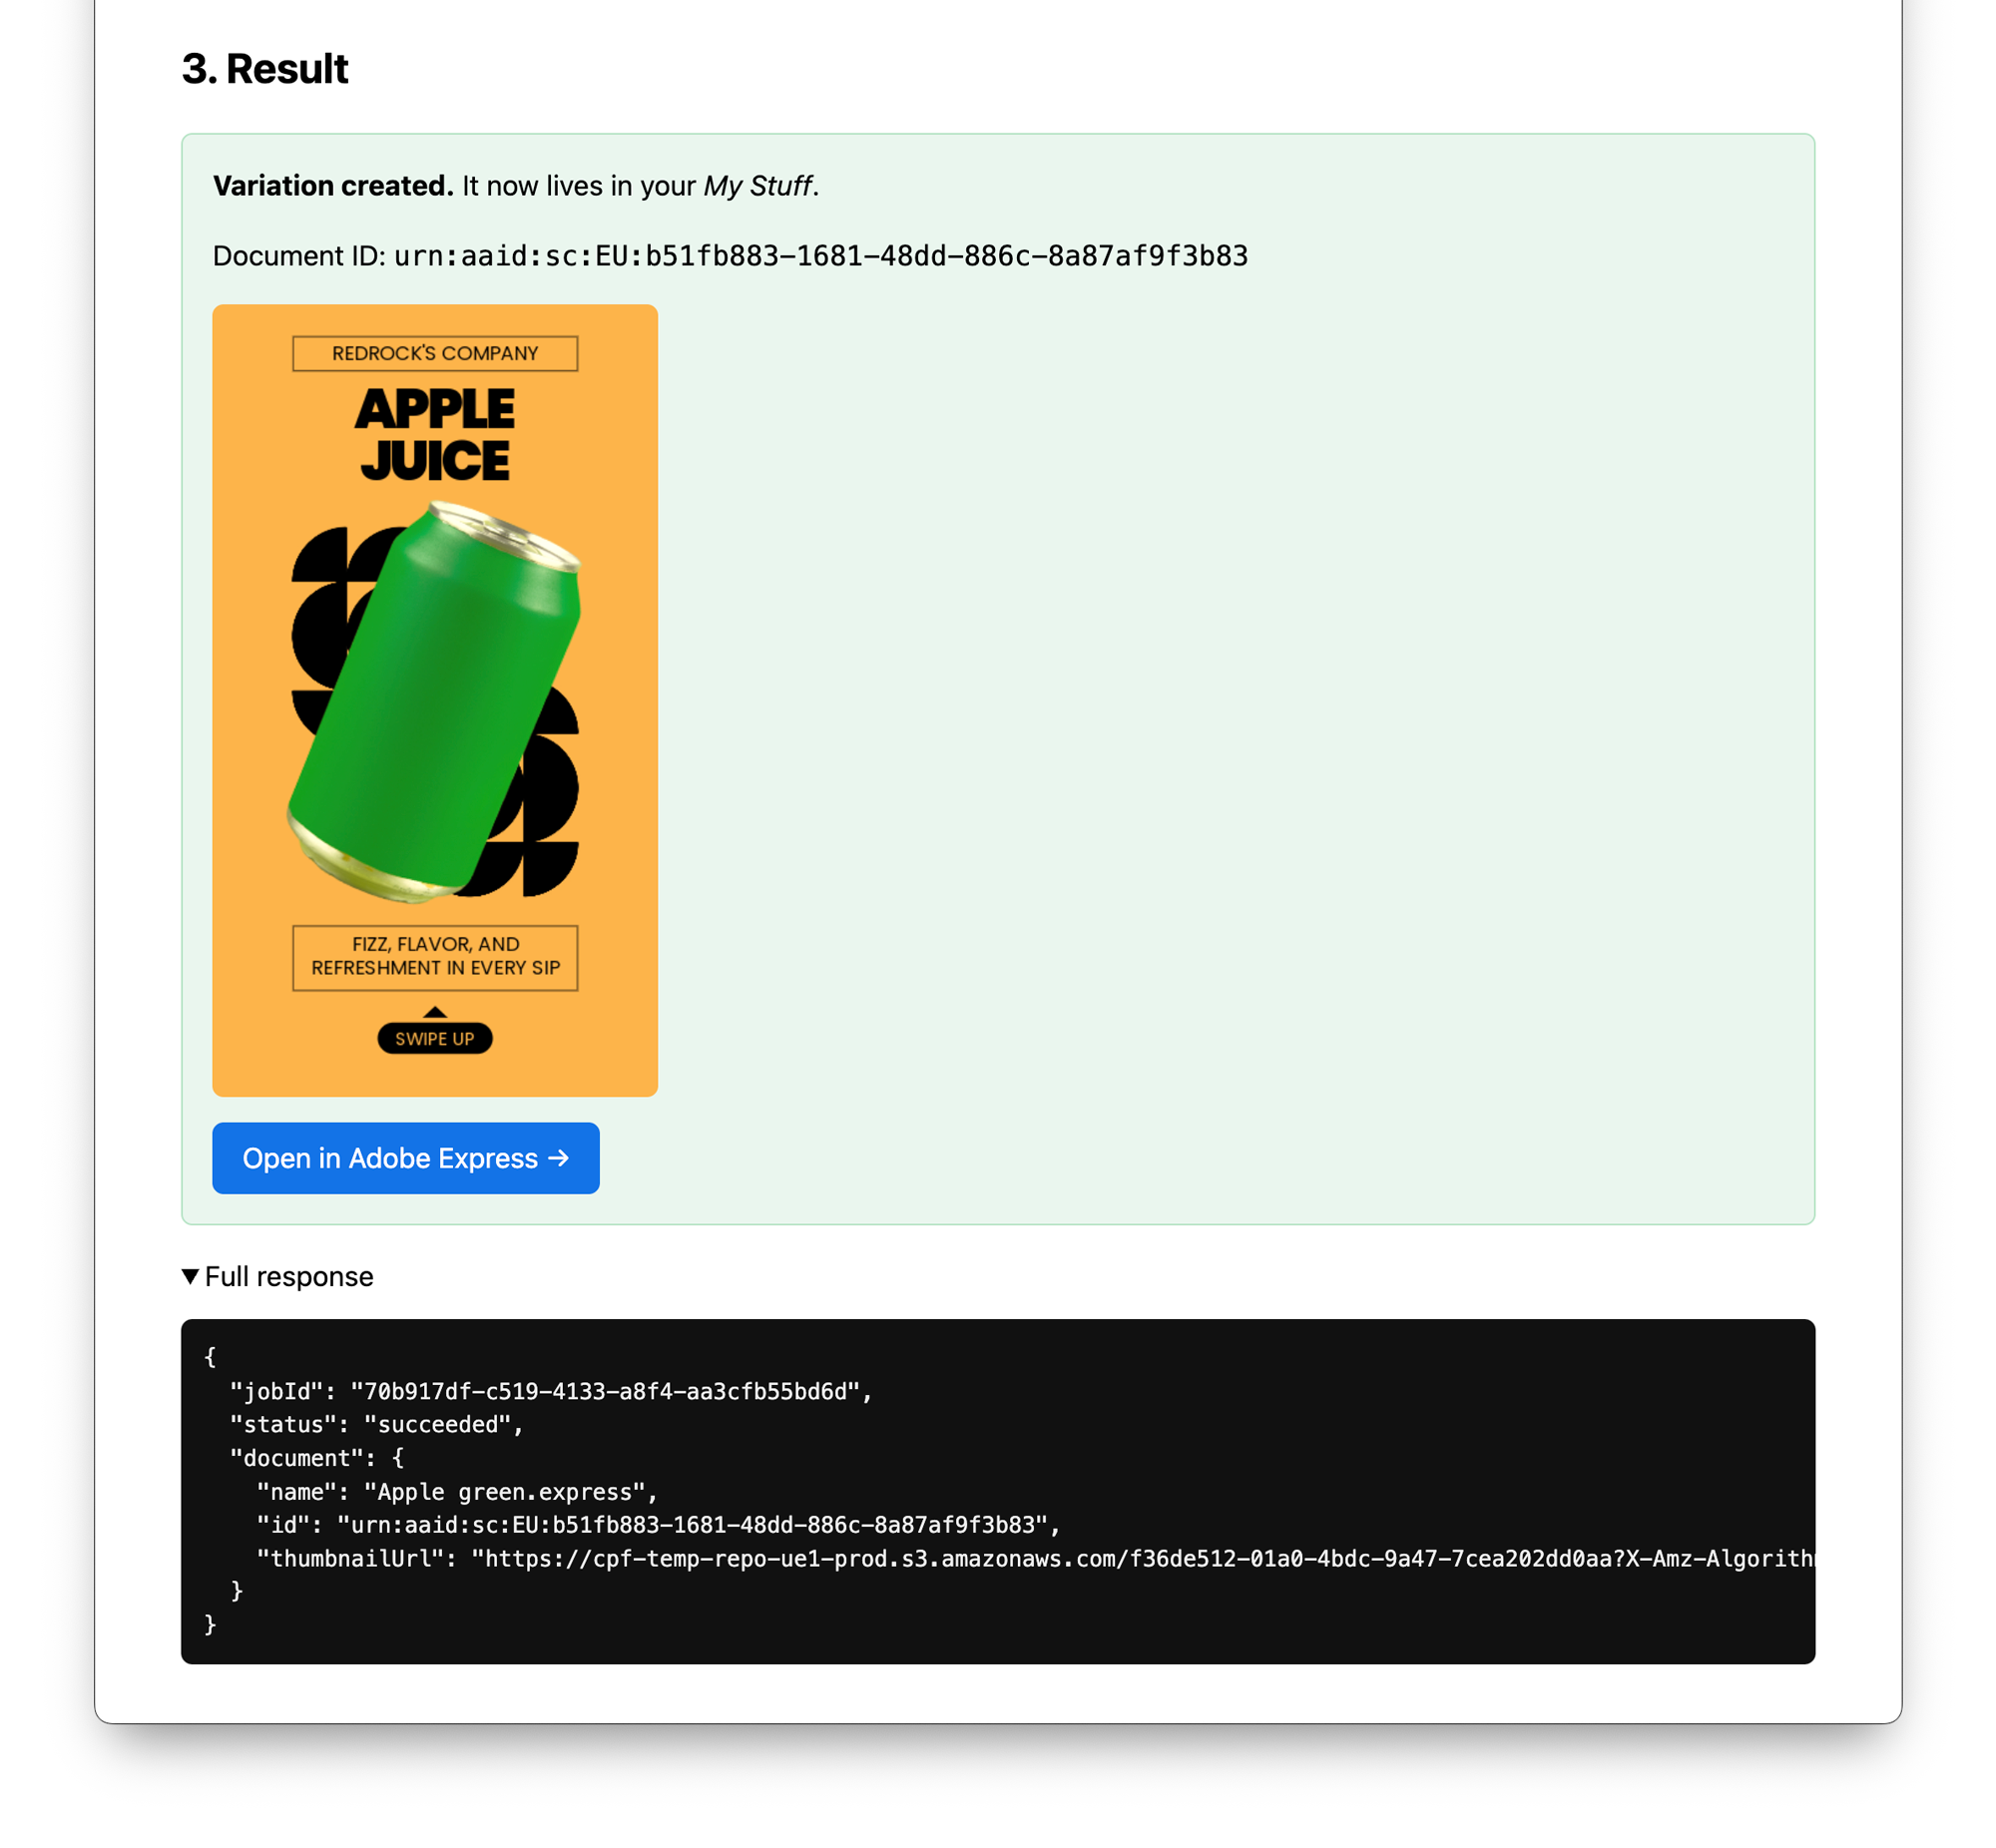
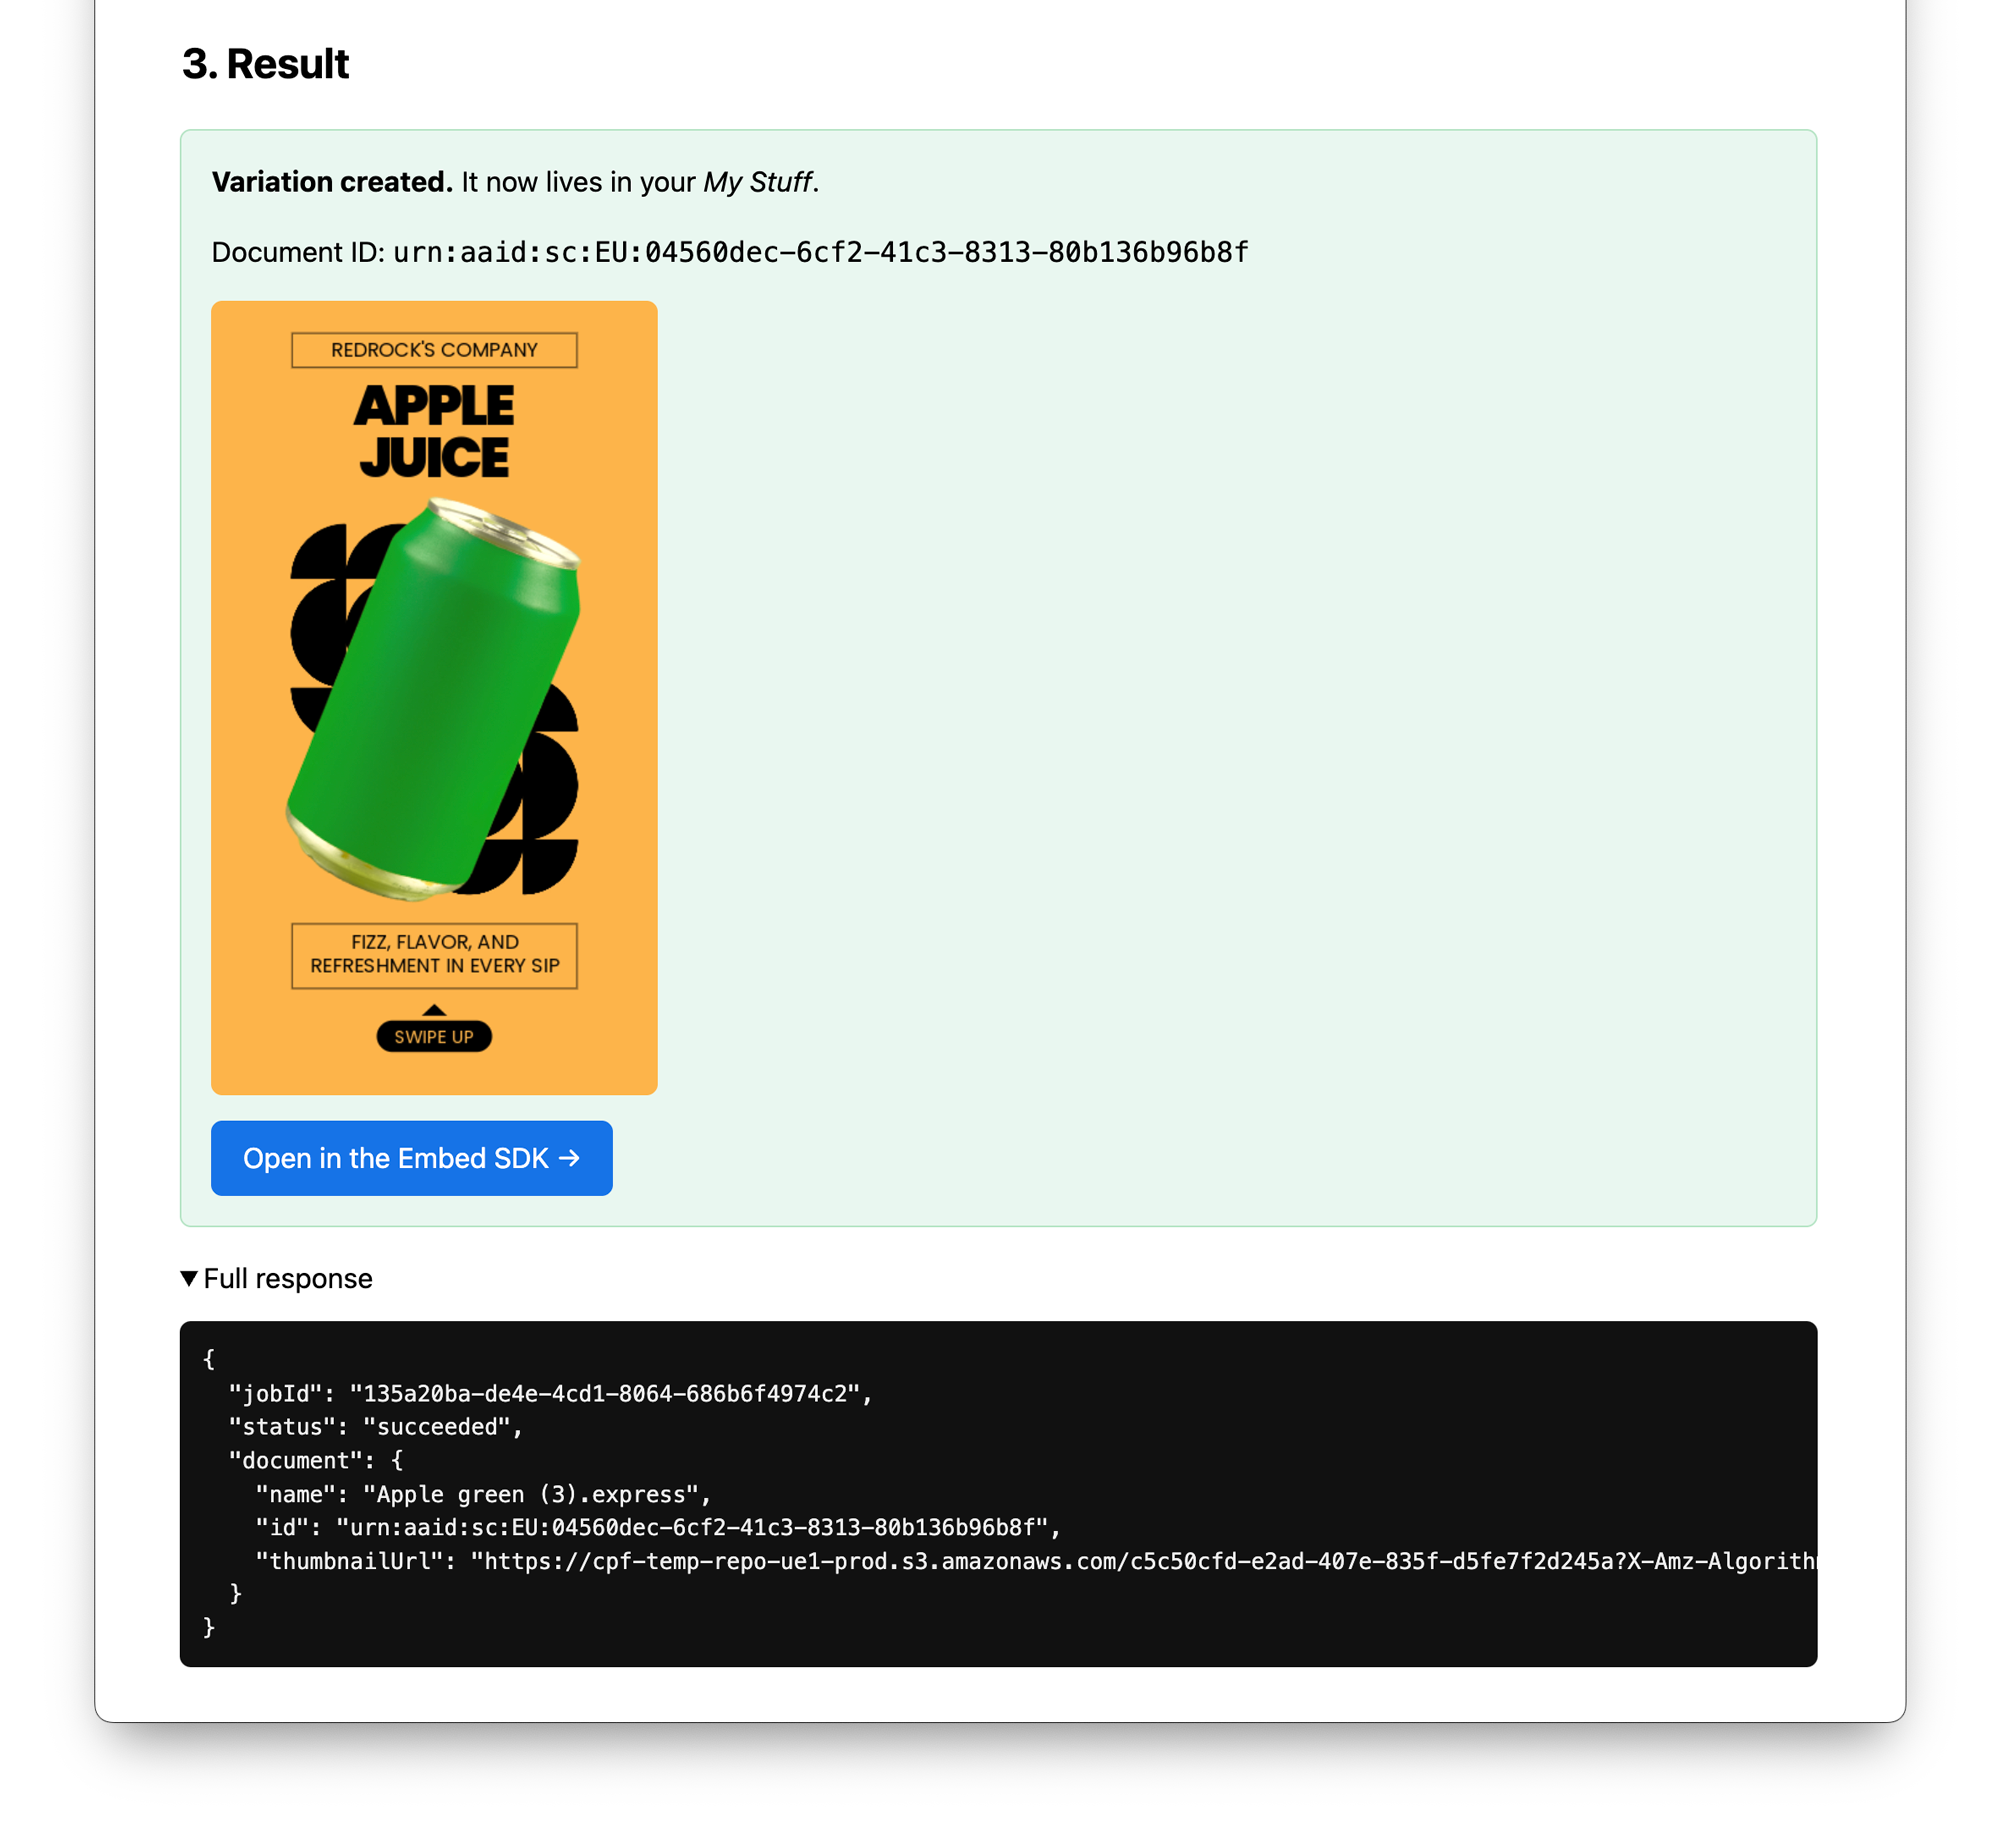
Implement the Embed SDK instead of Express

diff --git a/src/pages/config.md b/src/pages/config.md
@@ -2,49 +2,48 @@
   - /firefly-services/docs/express-api/
 
 - pages:
-    - All Firefly Services
-        - [Firefly Services Home](https://developer.adobe.com/firefly-services/docs/guides/?aio_internal) Introduction and general information about all Firefly services.
-        - [Firefly API](https://developer.adobe.com/firefly-services/docs/firefly-api/?aio_internal) Docs and references for Firefly API.
-        - [Photoshop API](https://developer.adobe.com/firefly-services/docs/photoshop/?aio_internal) Docs and references for Photoshop API.
-        - [Lightroom API](https://developer.adobe.com/firefly-services/docs/lightroom/?aio_internal) Docs and references for Lightroom API.
-        - [Audio/Video API](https://developer.adobe.com/audio-video-firefly-services/?aio_internal) Docs and references for Audio/Video API.
-        - [InDesign API](https://developer.adobe.com/firefly-services/docs/indesign-apis/?aio_internal) Docs and references for InDesign API.
-        - [Substance 3D API](https://developer.adobe.com/firefly-services/docs/s3dapi/?aio_internal) Unlock generative AI for rendering and object composites.
-        - [Illustrator API](https://developer.adobe.com/firefly-services/docs/illustrator/?aio_internal) Docs and references for Illustrator API.
-        - [Creative Production API](https://developer.adobe.com/firefly-services/docs/workflow-builder-api/?aio_internal) Docs and references for Firefly Creative Production API.
-        - [Express API](https://developer.adobe.com/firefly-services/docs/express-api/?aio_internal) Docs and references for Express API.
-        - [Content Tagging API](https://experienceleague.adobe.com/docs/experience-platform/intelligent-services/content-commerce-ai/overview.html) Docs and references for Content Tagging services.
-    - [About Express API](/index.md)
-    - [Getting Started](/getting-started/index.md)
-    - [Guides](guides/index.md)
-    - [API Reference](api/index.md)
+  - All Firefly Services
+    - [Firefly Services Home](https://developer.adobe.com/firefly-services/docs/guides/?aio_internal) Introduction and general information about all Firefly services.
+    - [Firefly API](https://developer.adobe.com/firefly-services/docs/firefly-api/?aio_internal) Docs and references for Firefly API.
+    - [Photoshop API](https://developer.adobe.com/firefly-services/docs/photoshop/?aio_internal) Docs and references for Photoshop API.
+    - [Lightroom API](https://developer.adobe.com/firefly-services/docs/lightroom/?aio_internal) Docs and references for Lightroom API.
+    - [Audio/Video API](https://developer.adobe.com/audio-video-firefly-services/?aio_internal) Docs and references for Audio/Video API.
+    - [InDesign API](https://developer.adobe.com/firefly-services/docs/indesign-apis/?aio_internal) Docs and references for InDesign API.
+    - [Substance 3D API](https://developer.adobe.com/firefly-services/docs/s3dapi/?aio_internal) Unlock generative AI for rendering and object composites.
+    - [Illustrator API](https://developer.adobe.com/firefly-services/docs/illustrator/?aio_internal) Docs and references for Illustrator API.
+    - [Creative Production API](https://developer.adobe.com/firefly-services/docs/workflow-builder-api/?aio_internal) Docs and references for Firefly Creative Production API.
+    - [Express API](https://developer.adobe.com/firefly-services/docs/express-api/?aio_internal) Docs and references for Express API.
+    - [Content Tagging API](https://experienceleague.adobe.com/docs/experience-platform/intelligent-services/content-commerce-ai/overview.html) Docs and references for Content Tagging services.
+  - [About Express API](/index.md)
+  - [Getting Started](/getting-started/index.md)
+  - [Guides](guides/index.md)
+  - [API Reference](api/index.md)
 
 - buttons:
-    - [Support](https://airtable.com/appu5RTWgdM95jynx/pagyuT1qspNJcPU2E/form)
-    - [Console](https://developer.adobe.com/console/) consoleId
+  - [Support](https://airtable.com/appu5RTWgdM95jynx/pagyuT1qspNJcPU2E/form)
+  - [Console](https://developer.adobe.com/console/) consoleId
 
 - subPages:
-    - What's New header
-    - [Changelog](getting-started/changelog/index.md)
-    - Getting Started header
-    - [General Authentication](/getting-started/index.md)
-    - [Create Credentials](/getting-started/create-credentials/index.md)
-    - [Error Logging](/getting-started/error-logging/index.md)
-    - [Technical Usage Notes](/getting-started/usage/index.md)
-    - [Rate Limits](/getting-started/rate-limits/index.md)
-    - Support header
-    - [FAQ](getting-started/support/FAQ/index.md)
-    - [Best Practices](/getting-started/support/best-practices/index.md)
-    - [Overview](index.md)
-    - Guides header
-    - [Express API Quickstart](guides/index.md)
-    - How Tos header
-    - [Tag Documents](guides/how-to/tag-documents.md)
-    - [Get Tagged Documents](guides/how-to/get-tagged-documents.md)
-    - [Generate Variations](guides/how-to/generate-variations.md)
-    - [Export Document Renditions](guides/how-to/export-document.md)
-    - [End-to-End Workflows](guides/how-to/e2e-generate-edit-variant-oauth.md)
-        - [Generate and Edit a Variant (OAuth)](guides/how-to/e2e-generate-edit-variant-oauth.md)
-        - [Old End-to-End Workflow](guides/how-to/end-to-end-workflow.md)
-    - Tutorials header
-    - [Dropbox Integration Workflow](guides/tutorials/dropbox-workflow.md)
+  - What's New header
+  - [Changelog](getting-started/changelog/index.md)
+  - Getting Started header
+  - [General Authentication](/getting-started/index.md)
+  - [Create Credentials](/getting-started/create-credentials/index.md)
+  - [Error Logging](/getting-started/error-logging/index.md)
+  - [Technical Usage Notes](/getting-started/usage/index.md)
+  - [Rate Limits](/getting-started/rate-limits/index.md)
+  - Support header
+  - [FAQ](getting-started/support/FAQ/index.md)
+  - [Best Practices](/getting-started/support/best-practices/index.md)
+  - [Overview](index.md)
+  - Guides header
+  - [Express API Quickstart](guides/index.md)
+  - How Tos header
+  - [Tag Documents](guides/how-to/tag-documents.md)
+  - [Get Tagged Documents](guides/how-to/get-tagged-documents.md)
+  - [Generate Variations](guides/how-to/generate-variations.md)
+  - [Export Document Renditions](guides/how-to/export-document.md)
+  - [End-to-End Workflows](guides/how-to/e2e-generate-edit-variant-oauth.md)
+    - [Generate and Edit a Variant (OAuth)](guides/how-to/e2e-generate-edit-variant-oauth.md)
+  - Tutorials header
+  - [Dropbox Integration Workflow](guides/tutorials/dropbox-workflow.md)

diff --git a/src/pages/guides/how-to/e2e-generate-edit-variant-oauth.md b/src/pages/guides/how-to/e2e-generate-edit-variant-oauth.md
@@ -417,33 +417,66 @@ When the job succeeds, you get the new document back:
 
 ![Variation created](./images/e2e-generate-edit-variant--variant-created.png)
 
-The variation is now stored in the user's account, inside an **Express API Documents** folder in **My Stuff**.
+The variation is now stored in the user's account, inside an **Express API Documents** folder in **My Stuff > Files**.
+
+<InlineAlert variant="warning" slots="text" />
+
+Variations are kept in the **Express API Documents** folder for 30 days before being automatically deleted. Move the variation to a different folder to retain it indefinitely.
 
 ![Variation in My Stuff](./images/e2e-generate-edit-variant--my-stuff.png)
 
-## 6. Open the variation in Adobe Express
+## 6. Open the variation with the Adobe Express Embed SDK
 
-Adobe Express can deep-link to a document by its URN. Build the URL from the `document.id` returned in step 5:
+The newly created document can be opened inside your own application using the Adobe Express Embed SDK. The Embed SDK exposes an **Editor Workflow** with an [`edit()`](https://developer.adobe.com/express/embed-sdk/docs/v4/sdk/src/workflows/3p/editor-workflow/classes/editor-workflow#edit) method that takes the same `documentId` (the variation URN returned in step 5) and launches the Full Editor experience in your page.
 
-```text
-https://express.adobe.com/id/<DOCUMENT_URN>
+### 6.1 Load and initialize the SDK
+
+Load the SDK script, then call `CCEverywhere.initialize` once with the Embed SDK's Client ID and an `appName` that matches the **Public App Name** you set in the Developer Console.
+
+<InlineAlert variant="info" slots="heading, text" />
+
+#### Embed SDK and Express API Client IDs
+
+The Embed SDK and Express API rely on **different Client IDs**. Both are generated when you create credentials in the Developer Console, but the Projects that contain them are independent.
+
+```js
+  await import('https://cc-embed.adobe.com/sdk/v4/CCEverywhere.js');
+
+  const hostInfo = {
+    clientId: '<CLIENT_ID>',
+    appName: 'Embed SDK & Express API integration',
+  };
+
+  // lets the user start interacting with the embedded editor; sign-in is only prompted when they save or export.
+  const configParams = { loginMode: 'delayed' };
+
+  const { editor } = await window.CCEverywhere.initialize(hostInfo, configParams);
 ```
 
-Render that as a button on your success view:
+### 6.2 Open the variation for editing
 
-```html
-<a href="https://express.adobe.com/id/urn:aaid:sc:EU:3da..."
-   target="_blank" rel="noopener">
-  Open in Adobe Express &rarr;
-</a>
+Pass the variation URN from step 5 as `documentId` and call `editor.edit()`:
+
+```js
+const docConfig = { documentId: '<DOCUMENT_URN>' };
+const appConfig = {};       // optional editor configuration
+const exportConfig = [];    // optional export targets
+const containerConfig = {}; // optional container configuration
+editor.edit(docConfig, appConfig, exportConfig);
 ```
 
-The user lands on their freshly generated document inside Adobe Express, where they can keep editing it like any other document.
+![Variation in Embed SDK](./images/e2e-generate-edit-variant--embed-sdk.png)
 
-![Variation in Adobe Express](./images/e2e-generate-edit-variant--adobe-express.png)
+For the full surface ([`appConfig`](https://developer.adobe.com/express/embed-sdk/docs/v4/shared/src/types/editor/app-config-types/interfaces/base-editor-app-config), [`exportConfig`](https://developer.adobe.com/express/embed-sdk/docs/v4/shared/src/types/export-config-types/type-aliases/export-options), [`containerConfig`](https://developer.adobe.com/express/embed-sdk/docs/v4/shared/src/types/container-config-types/type-aliases/container-config)), and other entry points available, please refer to the [Adobe Express Embed SDK documentation](https://developer.adobe.com/express/embed-sdk/docs/guides/).
+
+<InlineAlert variant="info" slots="heading, text" />
+
+#### Open in Adobe Express
+
+Alternatively, you can open the variation in Adobe Express (in a new Browser tab) by deep-linking to it via its URN: `https://express.adobe.com/id/<DOCUMENT_URN>`.
 
 ## Next steps
 
 - Run the full flow end to end with the [companion sample app](https://github.com/AdobeDocs/express-api-samples) (Node/Express backend + a single static HTML page).
 - Need to export the variation as JPG/PNG/MP4/PDF programmatically rather than handing it back to the user? Add a [rendition export step](./export-document.md) right after step 5.
-- Building the company-owned-templates variant of this workflow with **Server-to-Server** auth instead of OAuth Web App? See [Server-to-Server Authentication](../../getting-started/create-credentials/index.md#server-to-server)—steps 2 through 6 above stay the same; only the first step changes.
+- Building the company-owned-templates variant of this workflow with **Server-to-Server** auth instead of OAuth Web App? See [Generate and Edit a Variant (Server-to-Server)](./e2e-generate-edit-variant-s2s.md); steps 2 through 6 stay the same, only the first step changes.